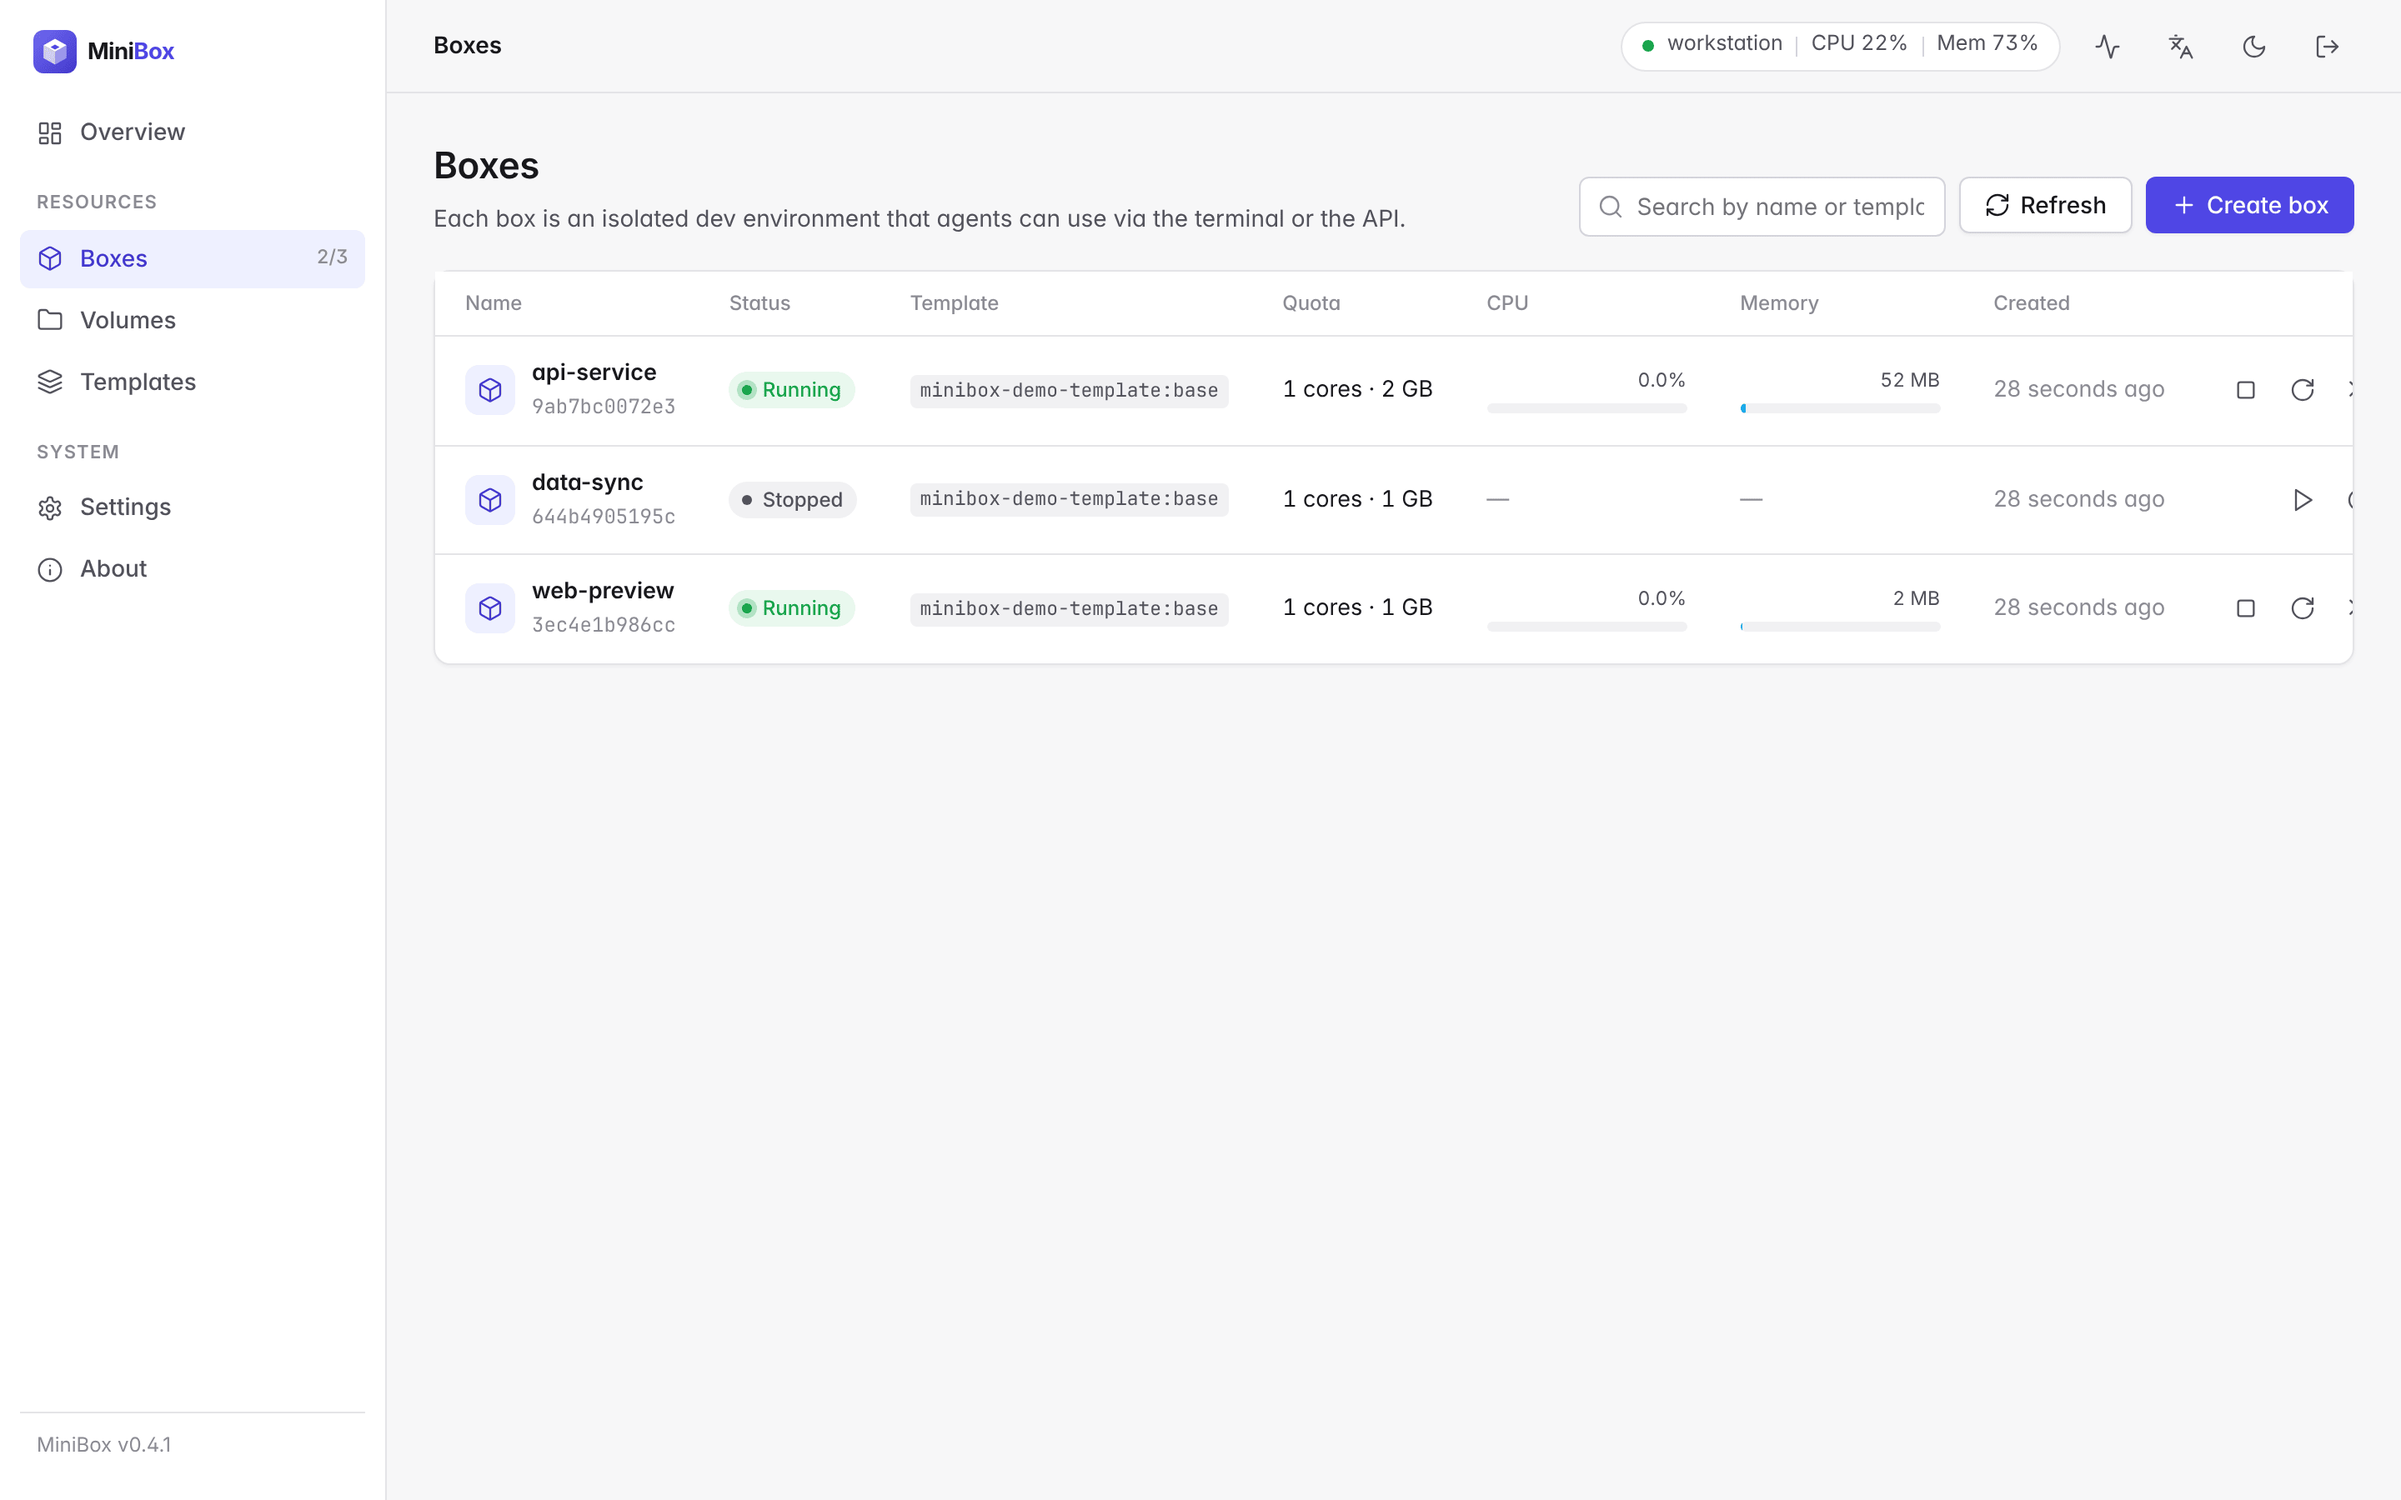
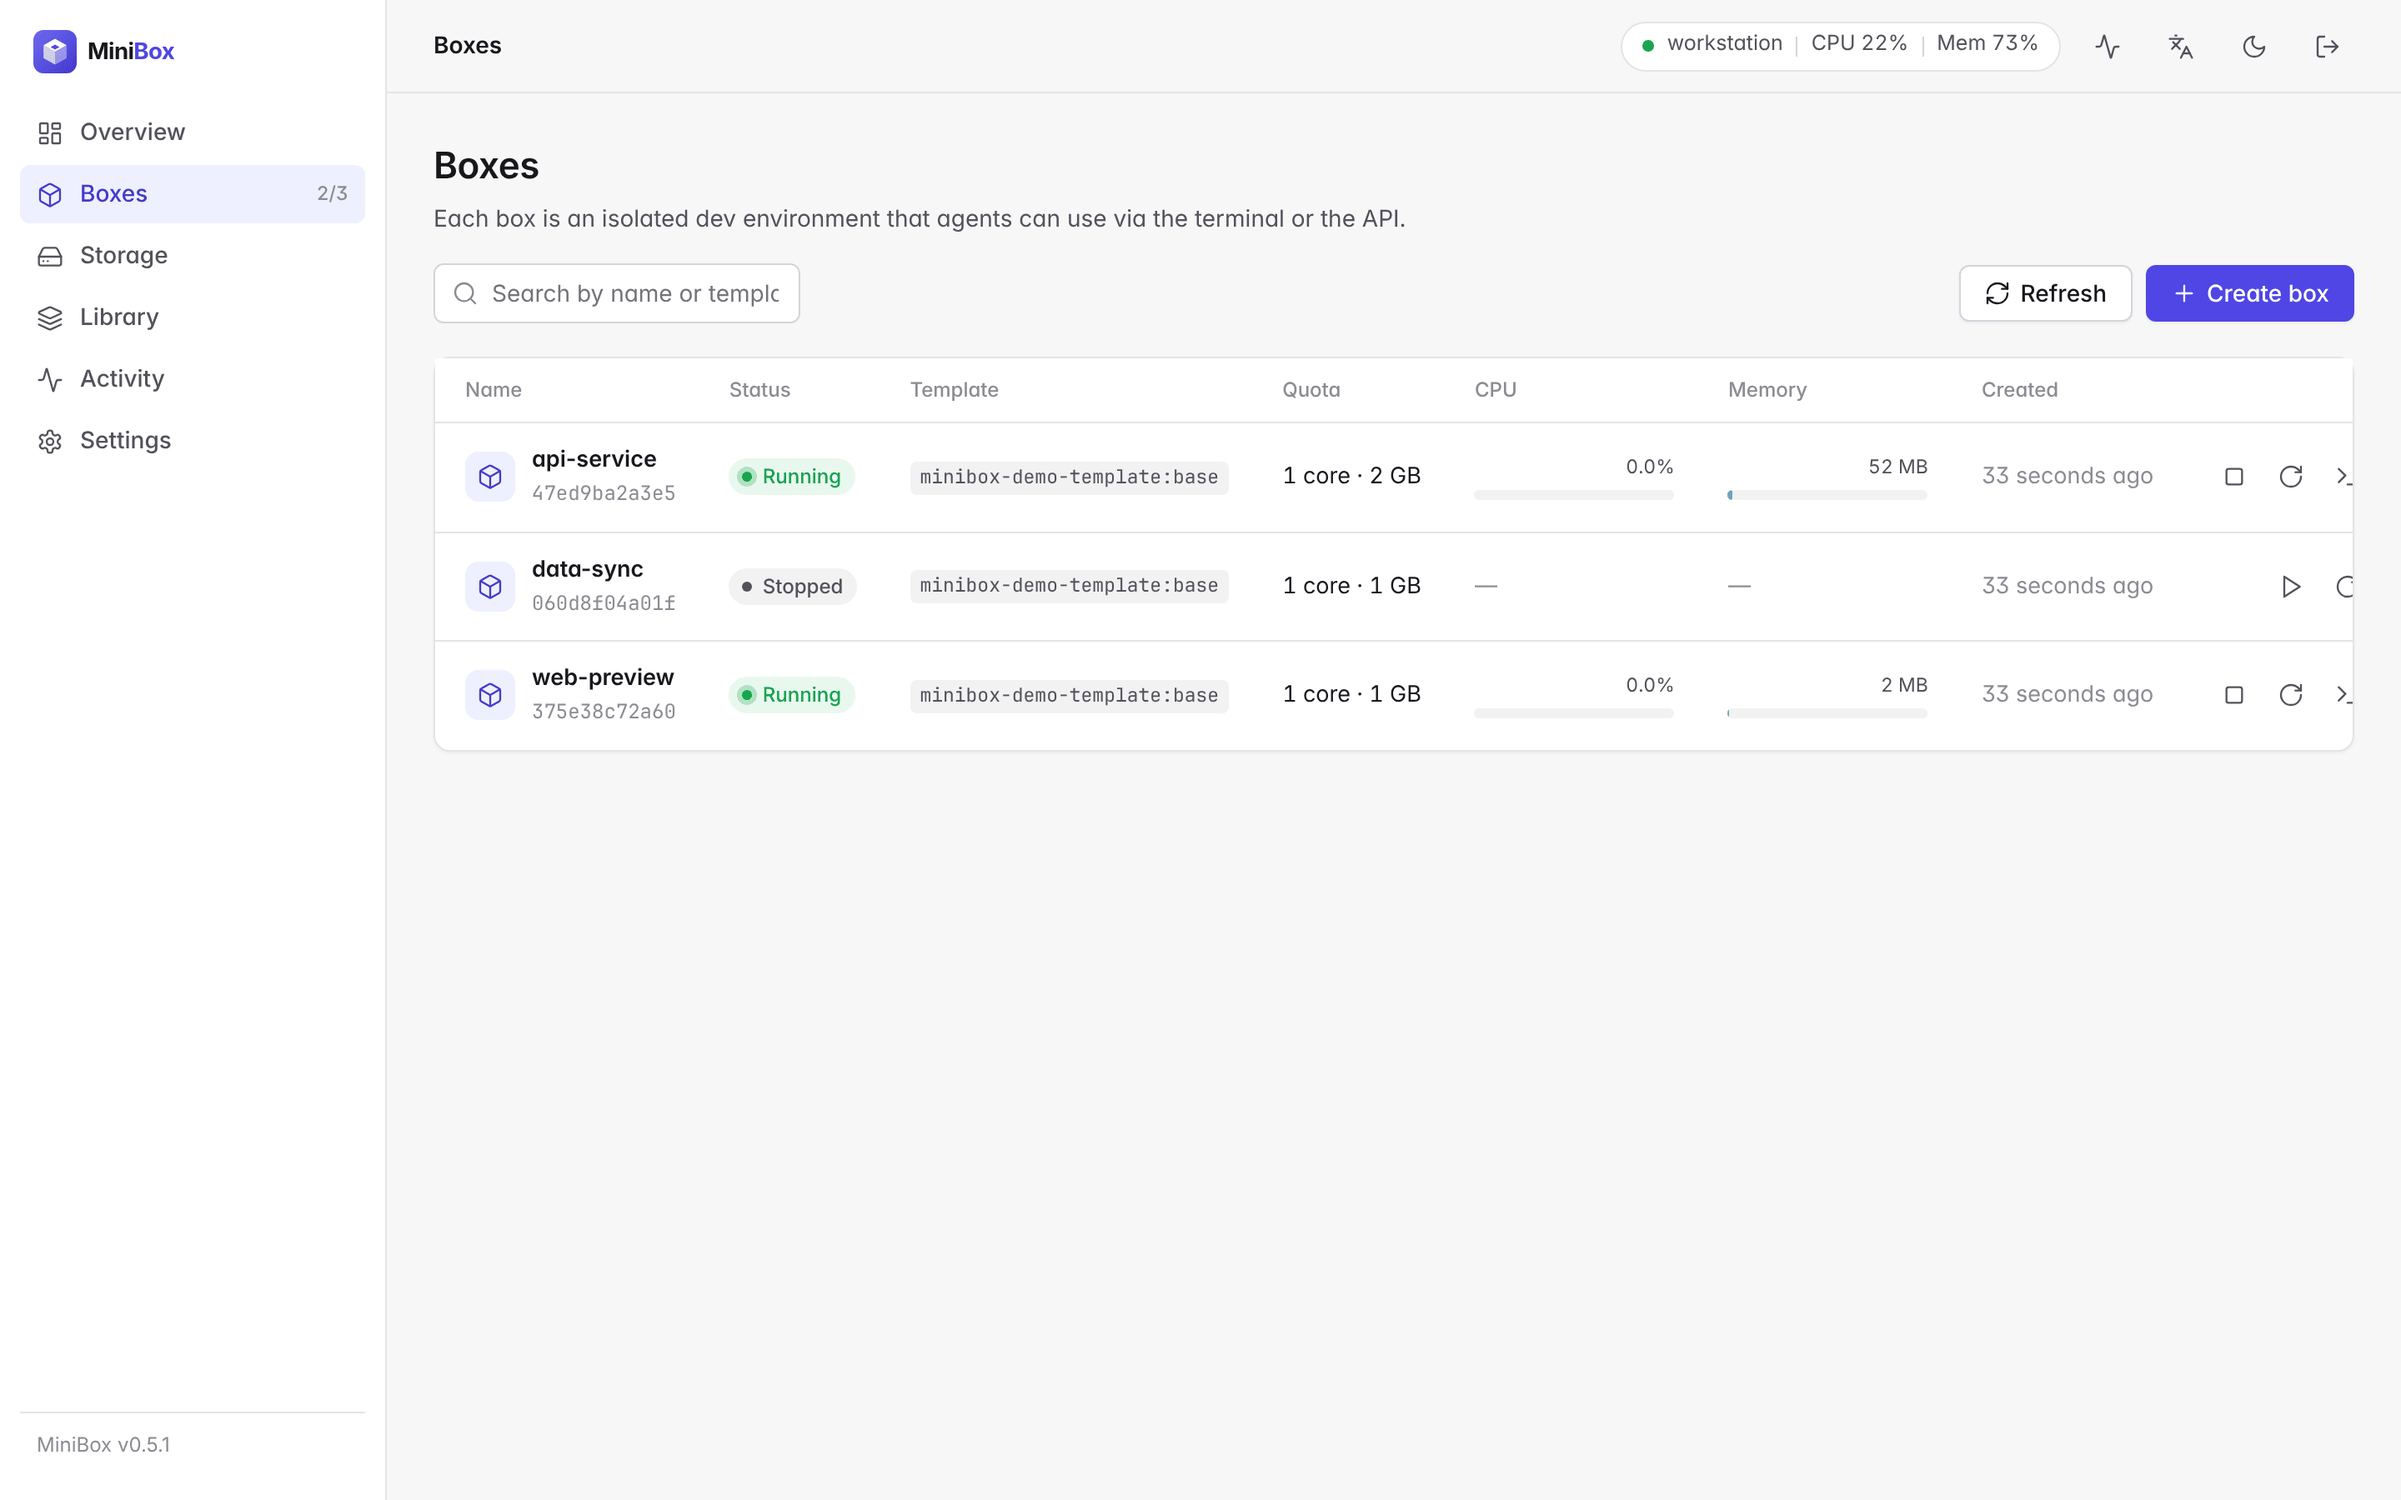
chore(screenshots): recapture the console on the new addresses
bun run screenshots opens Storage and Library at their new addresses,
and the Storage checkpoints tab has a capture of its own. The published
overview, boxes and box terminal images show the six entries of the new
sidebar, in both themes and both languages. The published images are
compressed with pngquant, as the script does when it is installed.

Refs #26

diff --git a/scripts/screenshots.ts b/scripts/screenshots.ts
@@ -44,6 +44,7 @@ const SCREENS = [
   "box-checkpoints",
   "box-files",
   "volumes",
+  "storage-checkpoints",
   "templates",
   "tools",
   "settings-hosts",
@@ -315,8 +316,8 @@ async function typeIntoSession(api: Api, box: string, text: string, settleMs: nu
 }
 
 async function createBox(api: Api, body: Json): Promise<string> {
-  const { box } = await api<{ box: { id: string } }>("POST", "/api/boxes", body);
-  return box.id;
+  const { box } = await api<{ box: { boxId: string } }>("POST", "/api/boxes", body);
+  return box.boxId;
 }
 
 /** Fixed demo content: three boxes, secrets, tokens, a volume, templates, checkpoints, a schedule and a terminal. */
@@ -501,15 +502,19 @@ const CAPTURES: Record<Screen, Capture> = {
     await page.screenshot({ path: out });
   },
   volumes: async (page, ctx, out) => {
-    await openRoute(page, ctx, "/volumes", exactText(page, "datasets"));
+    await openRoute(page, ctx, "/storage/volumes", exactText(page, "datasets"));
+    await page.screenshot({ path: out });
+  },
+  "storage-checkpoints": async (page, ctx, out) => {
+    await openRoute(page, ctx, `/storage/checkpoints/${ctx.demo.api}`, exactText(page, "baseline"));
     await page.screenshot({ path: out });
   },
   templates: async (page, ctx, out) => {
-    await openRoute(page, ctx, "/templates", exactText(page, "node-api"));
+    await openRoute(page, ctx, "/library/templates", exactText(page, "node-api"));
     await page.screenshot({ path: out });
   },
   tools: async (page, ctx, out) => {
-    await openRoute(page, ctx, `/boxes/${ctx.demo.api}/tools`, exactText(page, "Claude Code"));
+    await openRoute(page, ctx, `/library/tools/${ctx.demo.api}`, exactText(page, "Claude Code"));
     await page.screenshot({ path: out });
   },
   "settings-hosts": async (page, ctx, out) => {

diff --git a/docs/development.md b/docs/development.md
@@ -93,7 +93,7 @@ bun run openapi
 
 `bun run screenshots` captures the console for the README, the homepage and the docs. Run it by hand before a release. CI does not run it.
 
-The script starts its own MiniBox server, with a temporary data directory, a free port, the label prefix `minibox-demo` and its own Docker network. It seeds fixed demo content and captures 14 screens in light and dark, in English and Simplified Chinese, into `dist/screenshots/`. It publishes the overview, the box list and the box terminal to `docs/screenshots/en/` and `docs/screenshots/zh-CN/`. When `pngquant` is installed, it compresses the published images. The host name in the captures is `workstation`, and the version comes from `package.json`.
+The script starts its own MiniBox server, with a temporary data directory, a free port, the label prefix `minibox-demo` and its own Docker network. It seeds fixed demo content and captures 15 screens in light and dark, in English and Simplified Chinese, into `dist/screenshots/`. It publishes the overview, the box list and the box terminal to `docs/screenshots/en/` and `docs/screenshots/zh-CN/`. When `pngquant` is installed, it compresses the published images. The host name in the captures is `workstation`, and the version comes from `package.json`.
 
 The run removes the containers, images, volumes and networks it created, and its data directory, even when a capture fails. The first run builds the base template, which takes a few minutes.
 
